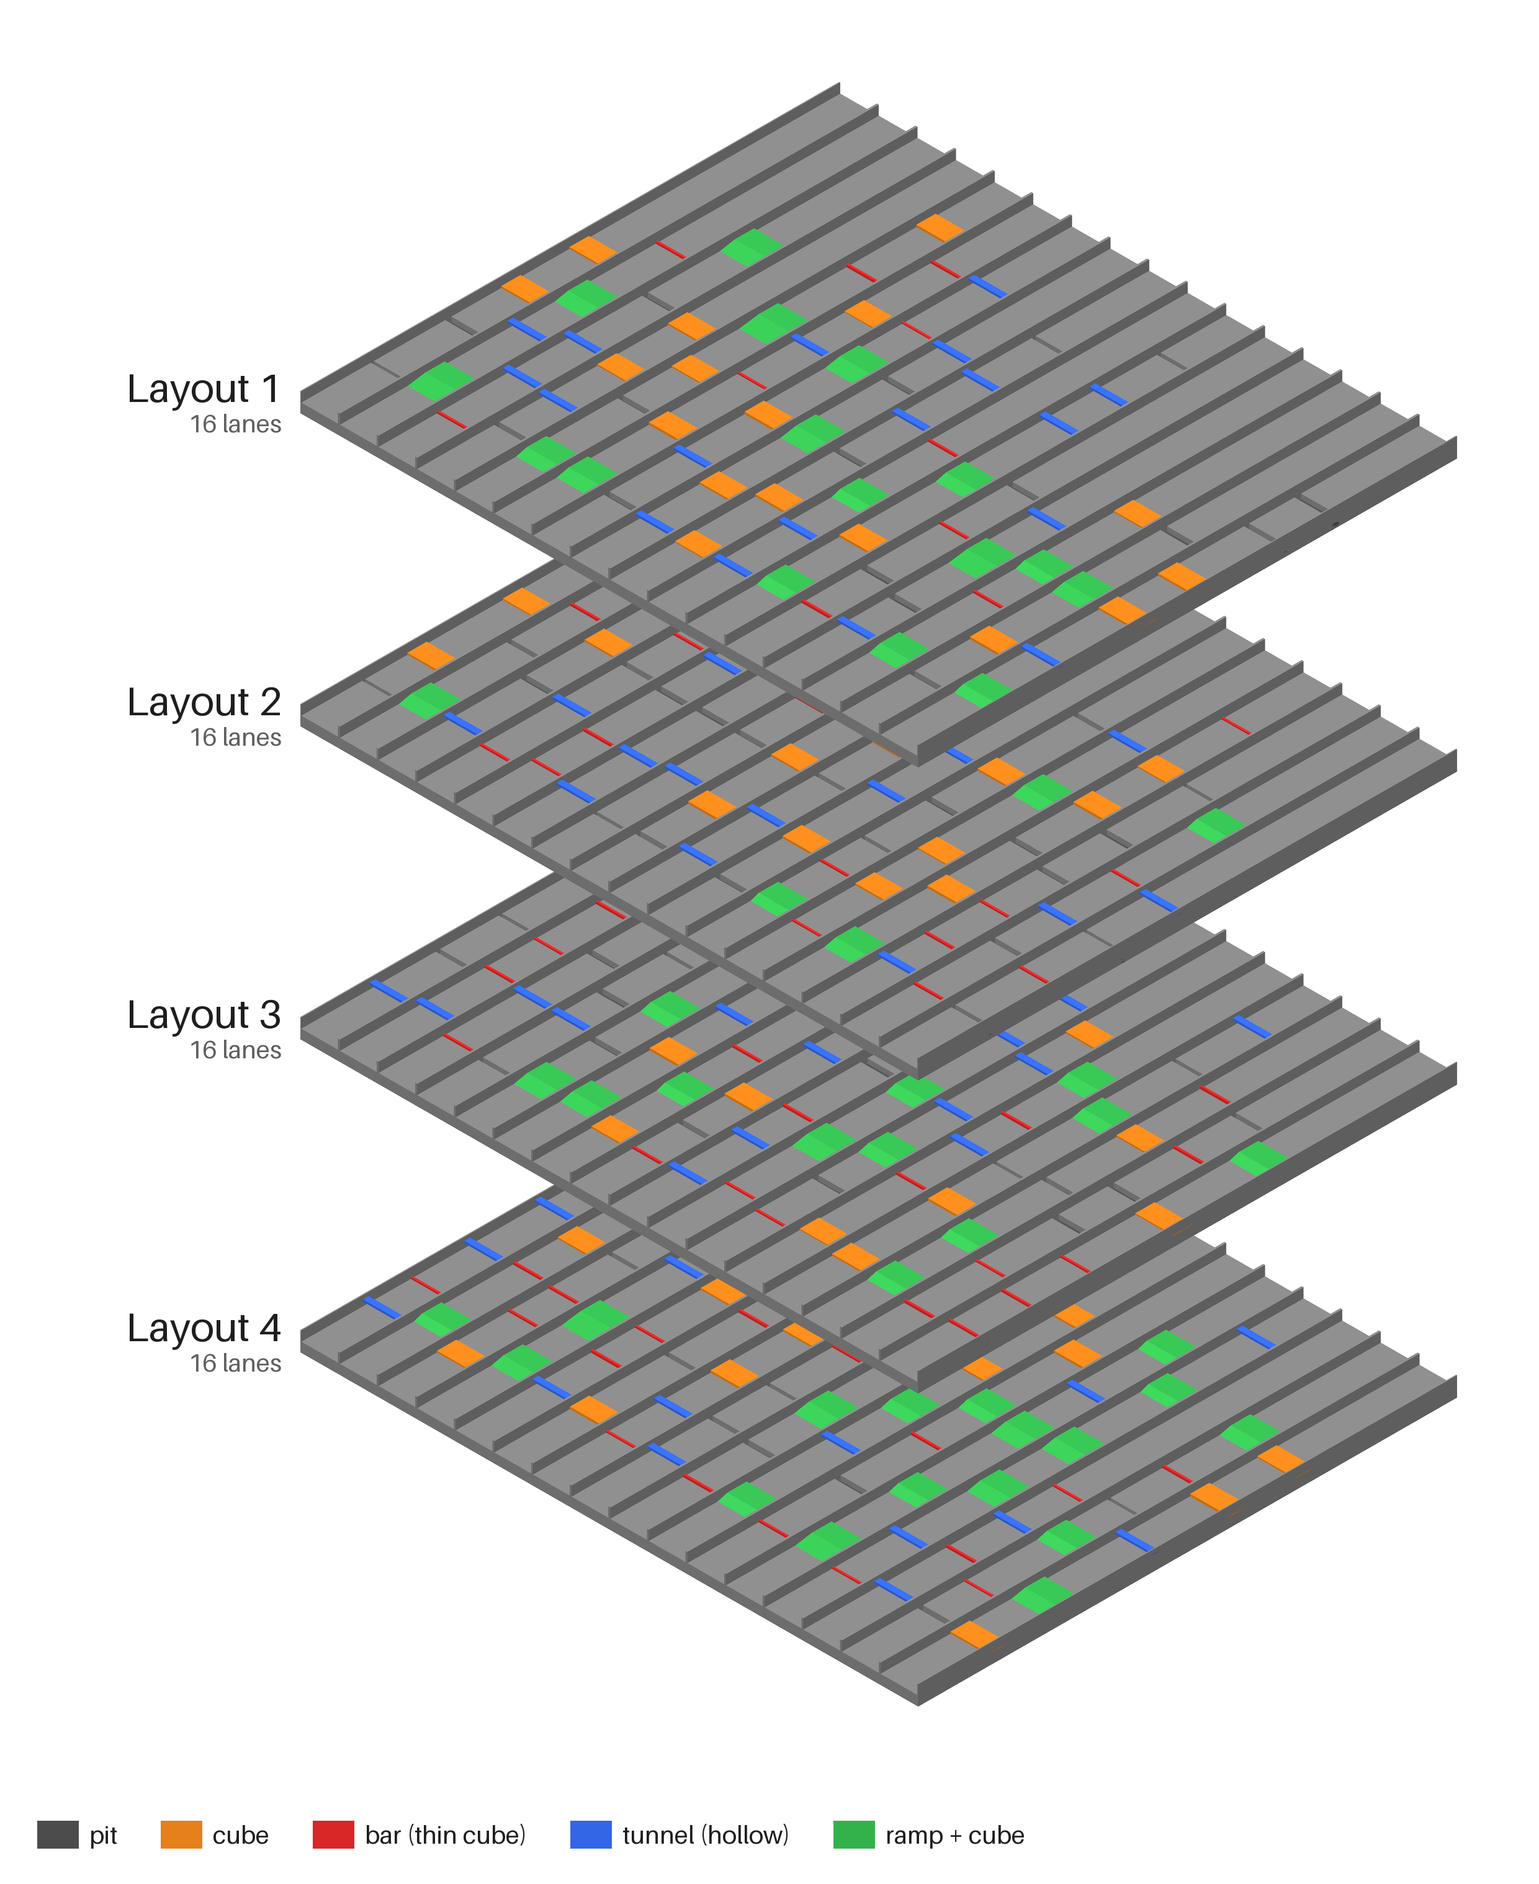
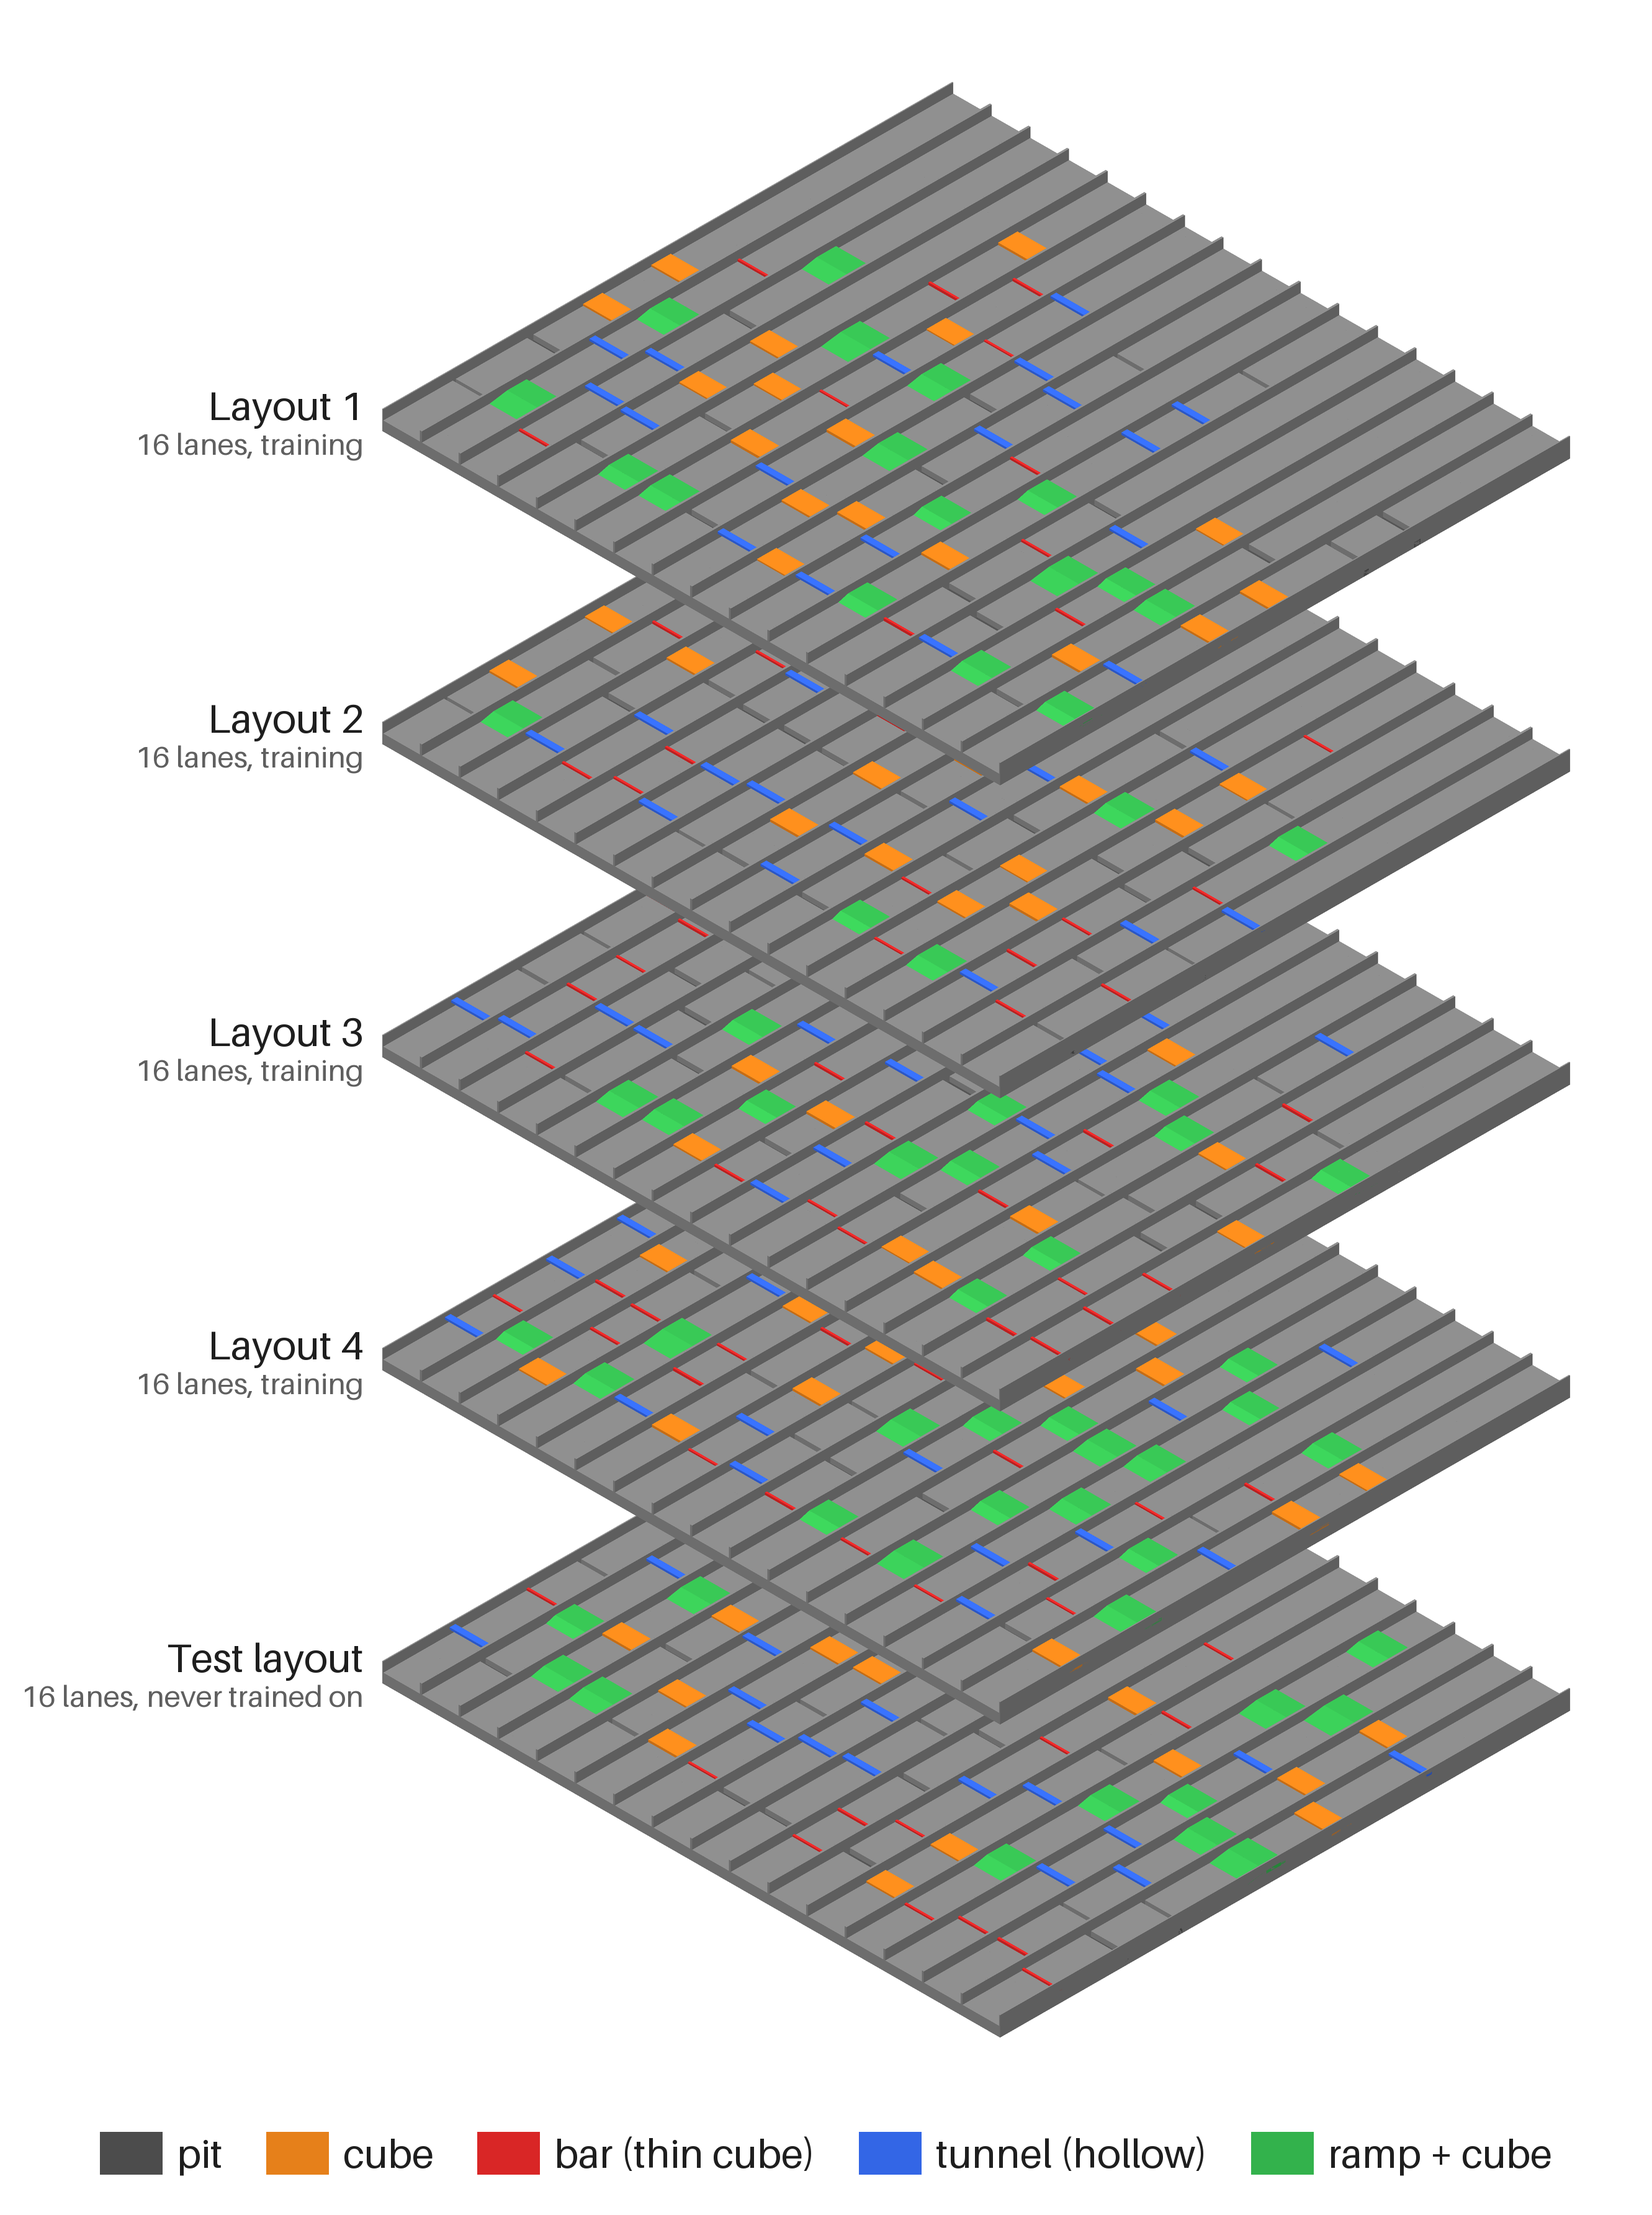
README: show the test layout in the env2 layouts picture and enlarge its legend

diff --git a/python/parkour_rl/make_media.py b/python/parkour_rl/make_media.py
@@ -5,7 +5,7 @@
 
     python -m parkour_rl.make_media skills     # the two frozen low-level policies on a flat floor: four clips
     python -m parkour_rl.make_media stages     # three training videos of the env1 run, one per row
-    python -m parkour_rl.make_media layouts    # the four training layouts of env2, drawn as a stack
+    python -m parkour_rl.make_media layouts    # the training layouts and the test layout of env2, drawn as a stack
     python -m parkour_rl.make_media results    # the final policy on the test layout of env2: six lanes in one clip
 
 Run it from the ``python`` directory. Every clip is written as .mp4 and as .gif, which a README can show in place.
@@ -16,7 +16,8 @@ skills    The hierarchy of the parkour task (hierarchy.ParkourVecEnvWrapper) wit
 stages    The videos that ``train --video`` recorded during the env1 run, STAGES of them. Each is one row of the clip:
           its tiles STAGE_TILES (pit, cube, hollow, ramp_cube) under a line with its PPO iteration and the curriculum
           rows its robots were on.
-layouts   The lanes of env2 as the terrain generator builds them, the training layouts moved on top of each other.
+layouts   The lanes of env2 as the terrain generator builds them, the layouts moved on top of each other: the
+          training layouts, then the test layout at the bottom.
           The lanes are drawn up to the nearest goal of the longest one; behind it every lane is empty.
 results   One episode of RESULT_CHECKPOINT, with deterministic actions, on each of the 16 lanes of the test layout of
           env2, which training never used. The outcome of every lane is printed. The clip shows six of them at once,
@@ -109,7 +110,7 @@ LAYER_GAP = 14.  # Height between two layouts of the stack (m).
 VIEW = dict(azimuth=45., elevation=-35.)
 PIXELS_PER_METRE = 44
 SUPERSAMPLING = 2  # The picture is rendered this many times larger and scaled down, which smooths the edges.
-MARGIN = (11., 3., 3., 6.5)  # Left (layout names), top, right, bottom (legend) of the picture (m).
+MARGIN = (14., 3., 3., 6.5)  # Left (layout names), top, right, bottom (legend) of the picture (m).
 LEGEND = (("pit", DARK), ("cube", ORANGE), ("bar (thin cube)", RED), ("tunnel (hollow)", BLUE),
           ("ramp + cube", GREEN))
 
@@ -254,7 +255,8 @@ def stages() -> None:
 
 
 def layouts() -> None:
-    """Draw the training layouts of env2 as a stack, layout 1 on top: media/env2_layouts.png."""
+    """Draw the layouts of env2 as a stack, training layout 1 on top and the test layout at the bottom:
+    media/env2_layouts.png."""
     spec = mujoco.MjSpec()
     cfg = make_env2_terrain_cfg()
     TerrainGenerator(cfg).compile(spec)
@@ -263,12 +265,12 @@ def layouts() -> None:
     # The generator lays the rows (layouts) end to end along x, the whole grid centred on the world origin.
     start_x = -cfg.num_rows * LANE[0] / 2
     row = ((terrain.geom_pos[:, 0] - start_x) // LANE[0]).astype(int)  # Layout of each geom.
-    # The lanes are drawn up to here (m): the nearest goal of the training lane whose last obstacle lies farthest.
+    # The lanes are drawn up to here (m): the nearest goal of the lane whose last obstacle lies farthest.
     length = max(lane.layouts[layout][-1]["x_end"] for lane in cfg.sub_terrains.values()
-                 for layout in range(ENV2_TRAIN_LAYOUTS)) + GOAL_MARGIN[0]
+                 for layout in range(cfg.num_rows)) + GOAL_MARGIN[0]
 
     stack = mujoco.MjSpec()
-    for i in np.flatnonzero(row < ENV2_TRAIN_LAYOUTS):
+    for i in range(len(row)):
         position, half_size = terrain.geom_pos[i].copy(), terrain.geom_size[i].copy()
         position[0] -= start_x + row[i] * LANE[0]  # Every layout starts at x = 0.
         # Cut at ``length``. Only ground boxes and walls reach that far, and their first axis is the lane's.
@@ -276,7 +278,7 @@ def layouts() -> None:
         if low >= length:
             continue
         position[0], half_size[0] = (low + high) / 2, (high - low) / 2
-        position[2] += (ENV2_TRAIN_LAYOUTS - 1 - row[i]) * LAYER_GAP
+        position[2] += (cfg.num_rows - 1 - row[i]) * LAYER_GAP
         stack.worldbody.add_geom(type=mujoco.mjtGeom.mjGEOM_BOX, size=half_size, pos=position,
                                  quat=terrain.geom_quat[i], rgba=terrain.geom_rgba[i])
     stack.worldbody.add_light(type=mujoco.mjtLightType.mjLIGHT_DIRECTIONAL, dir=(.3, -.5, -1.), castshadow=False,
@@ -289,7 +291,7 @@ def layouts() -> None:
     up = np.array((-math.cos(azimuth) * math.sin(elevation), -math.sin(azimuth) * math.sin(elevation),
                    math.cos(elevation)))
     width = ENV2_LANES * LANE[1]
-    top = (ENV2_TRAIN_LAYOUTS - 1) * LAYER_GAP
+    top = (cfg.num_rows - 1) * LAYER_GAP
     corners = np.array([(x, y, z) for x in (0., length) for y in (-width / 2, width / 2) for z in (-.5, top + .5)])
     low = np.array(((corners @ right).min() - MARGIN[0], (corners @ up).min() - MARGIN[3]))
     high = np.array(((corners @ right).max() + MARGIN[2], (corners @ up).max() + MARGIN[1]))
@@ -325,19 +327,23 @@ def layouts() -> None:
         return (point @ right - low[0]) * PIXELS_PER_METRE, (high[1] - point @ up) * PIXELS_PER_METRE
 
     draw = ImageDraw.Draw(picture)
-    name, note = ImageFont.load_default(64), ImageFont.load_default(40)
+    name, note = ImageFont.load_default(64), ImageFont.load_default(48)
     ink, soft = (30, 30, 30), (95, 95, 95)
-    for layout in range(ENV2_TRAIN_LAYOUTS):
+    for layout in range(cfg.num_rows):
+        training = layout < ENV2_TRAIN_LAYOUTS
         # The left corner of the layout: the far end of the lanes' start line.
-        x, y = pixel((0., width / 2, (ENV2_TRAIN_LAYOUTS - 1 - layout) * LAYER_GAP))
-        draw.text((x - 30, y - 24), f"Layout {layout + 1}", font=name, fill=ink, anchor="rm")
-        draw.text((x - 30, y + 34), f"{ENV2_LANES} lanes", font=note, fill=soft, anchor="rm")
-    # Legend along the bottom: the colour of every obstacle kind.
-    x, y = 60, size[1] - 80
+        x, y = pixel((0., width / 2, (cfg.num_rows - 1 - layout) * LAYER_GAP))
+        draw.text((x - 30, y - 24), f"Layout {layout + 1}" if training else "Test layout", font=name, fill=ink,
+                  anchor="rm")
+        draw.text((x - 30, y + 38), f"{ENV2_LANES} lanes, {'training' if training else 'never trained on'}",
+                  font=note, fill=soft, anchor="rm")
+    # Legend along the bottom, centred: the colour of every obstacle kind.
+    x = (size[0] - sum(124 + draw.textlength(label, font=name) for label, _ in LEGEND) - 70 * (len(LEGEND) - 1)) / 2
+    y = size[1] - 100
     for label, rgba in LEGEND:
-        draw.rectangle((x, y - 22, x + 66, y + 22), fill=tuple(round(255 * c) for c in rgba[:3]))
-        draw.text((x + 84, y), label, font=note, fill=ink, anchor="lm")
-        x += 84 + draw.textlength(label, font=note) + 70
+        draw.rectangle((x, y - 34, x + 100, y + 34), fill=tuple(round(255 * c) for c in rgba[:3]))
+        draw.text((x + 124, y), label, font=name, fill=ink, anchor="lm")
+        x += 124 + draw.textlength(label, font=name) + 70
     MEDIA.mkdir(exist_ok=True)
     picture.save(MEDIA / "env2_layouts.png")
     print(MEDIA / "env2_layouts.png", picture.size)

diff --git a/README.md b/README.md
@@ -84,10 +84,11 @@ Training starts from the env1 policy with a new critic, and for the first 50 ite
 is no curriculum: after every episode a robot moves to a random training layout.
 
 <p align="center">
-  <img src="python/parkour_rl/media/env2_layouts.png" width="560" alt="The four training layouts of env2">
+  <img src="python/parkour_rl/media/env2_layouts.png" width="560" alt="The four training layouts and the test layout of env2">
 </p>
 
-*The four training layouts, drawn on top of each other. Each lane is 37 m long; the first 28 m are shown.*
+*The four training layouts and the test layout, drawn on top of each other. Each lane is 37 m long; the first 30 m
+are shown.*
 
 The run lasted 3000 iterations. We release the policy of iteration 1000 (`python/parkour_rl/checkpoints/`): the last
 one was no better on the test layout (51 of 80 episodes against 54) and had forgotten more of env1.
